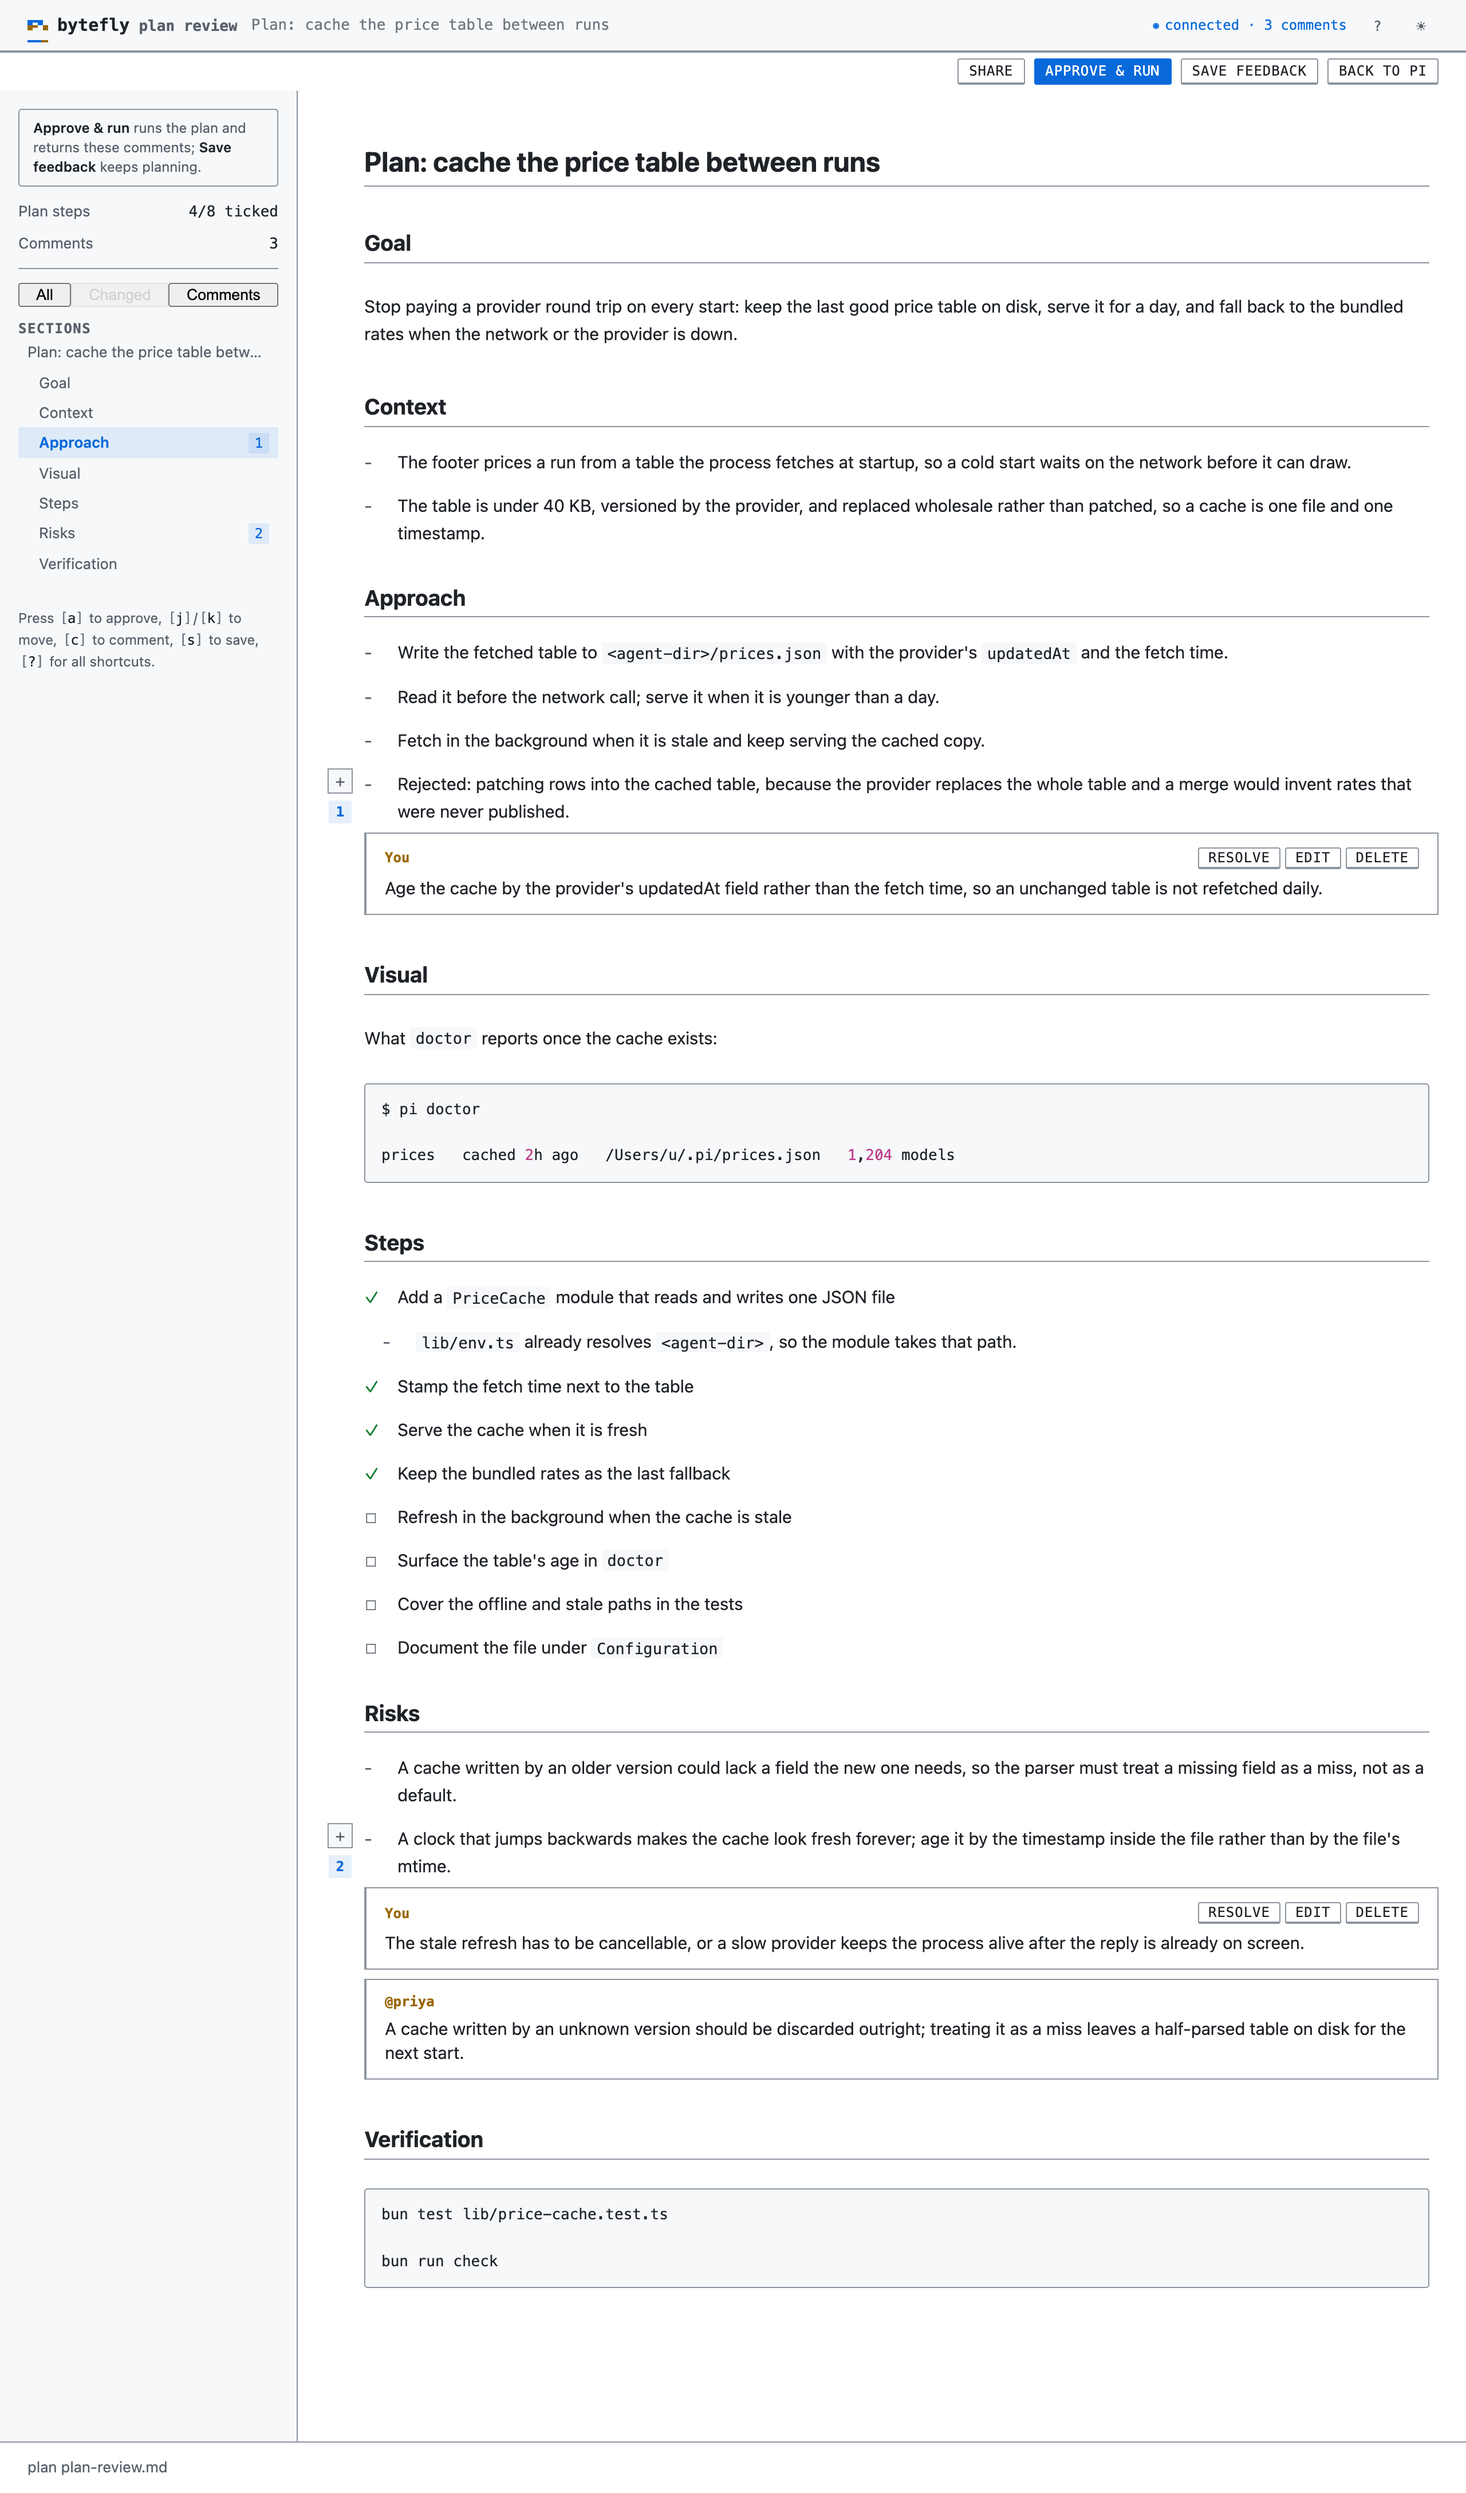
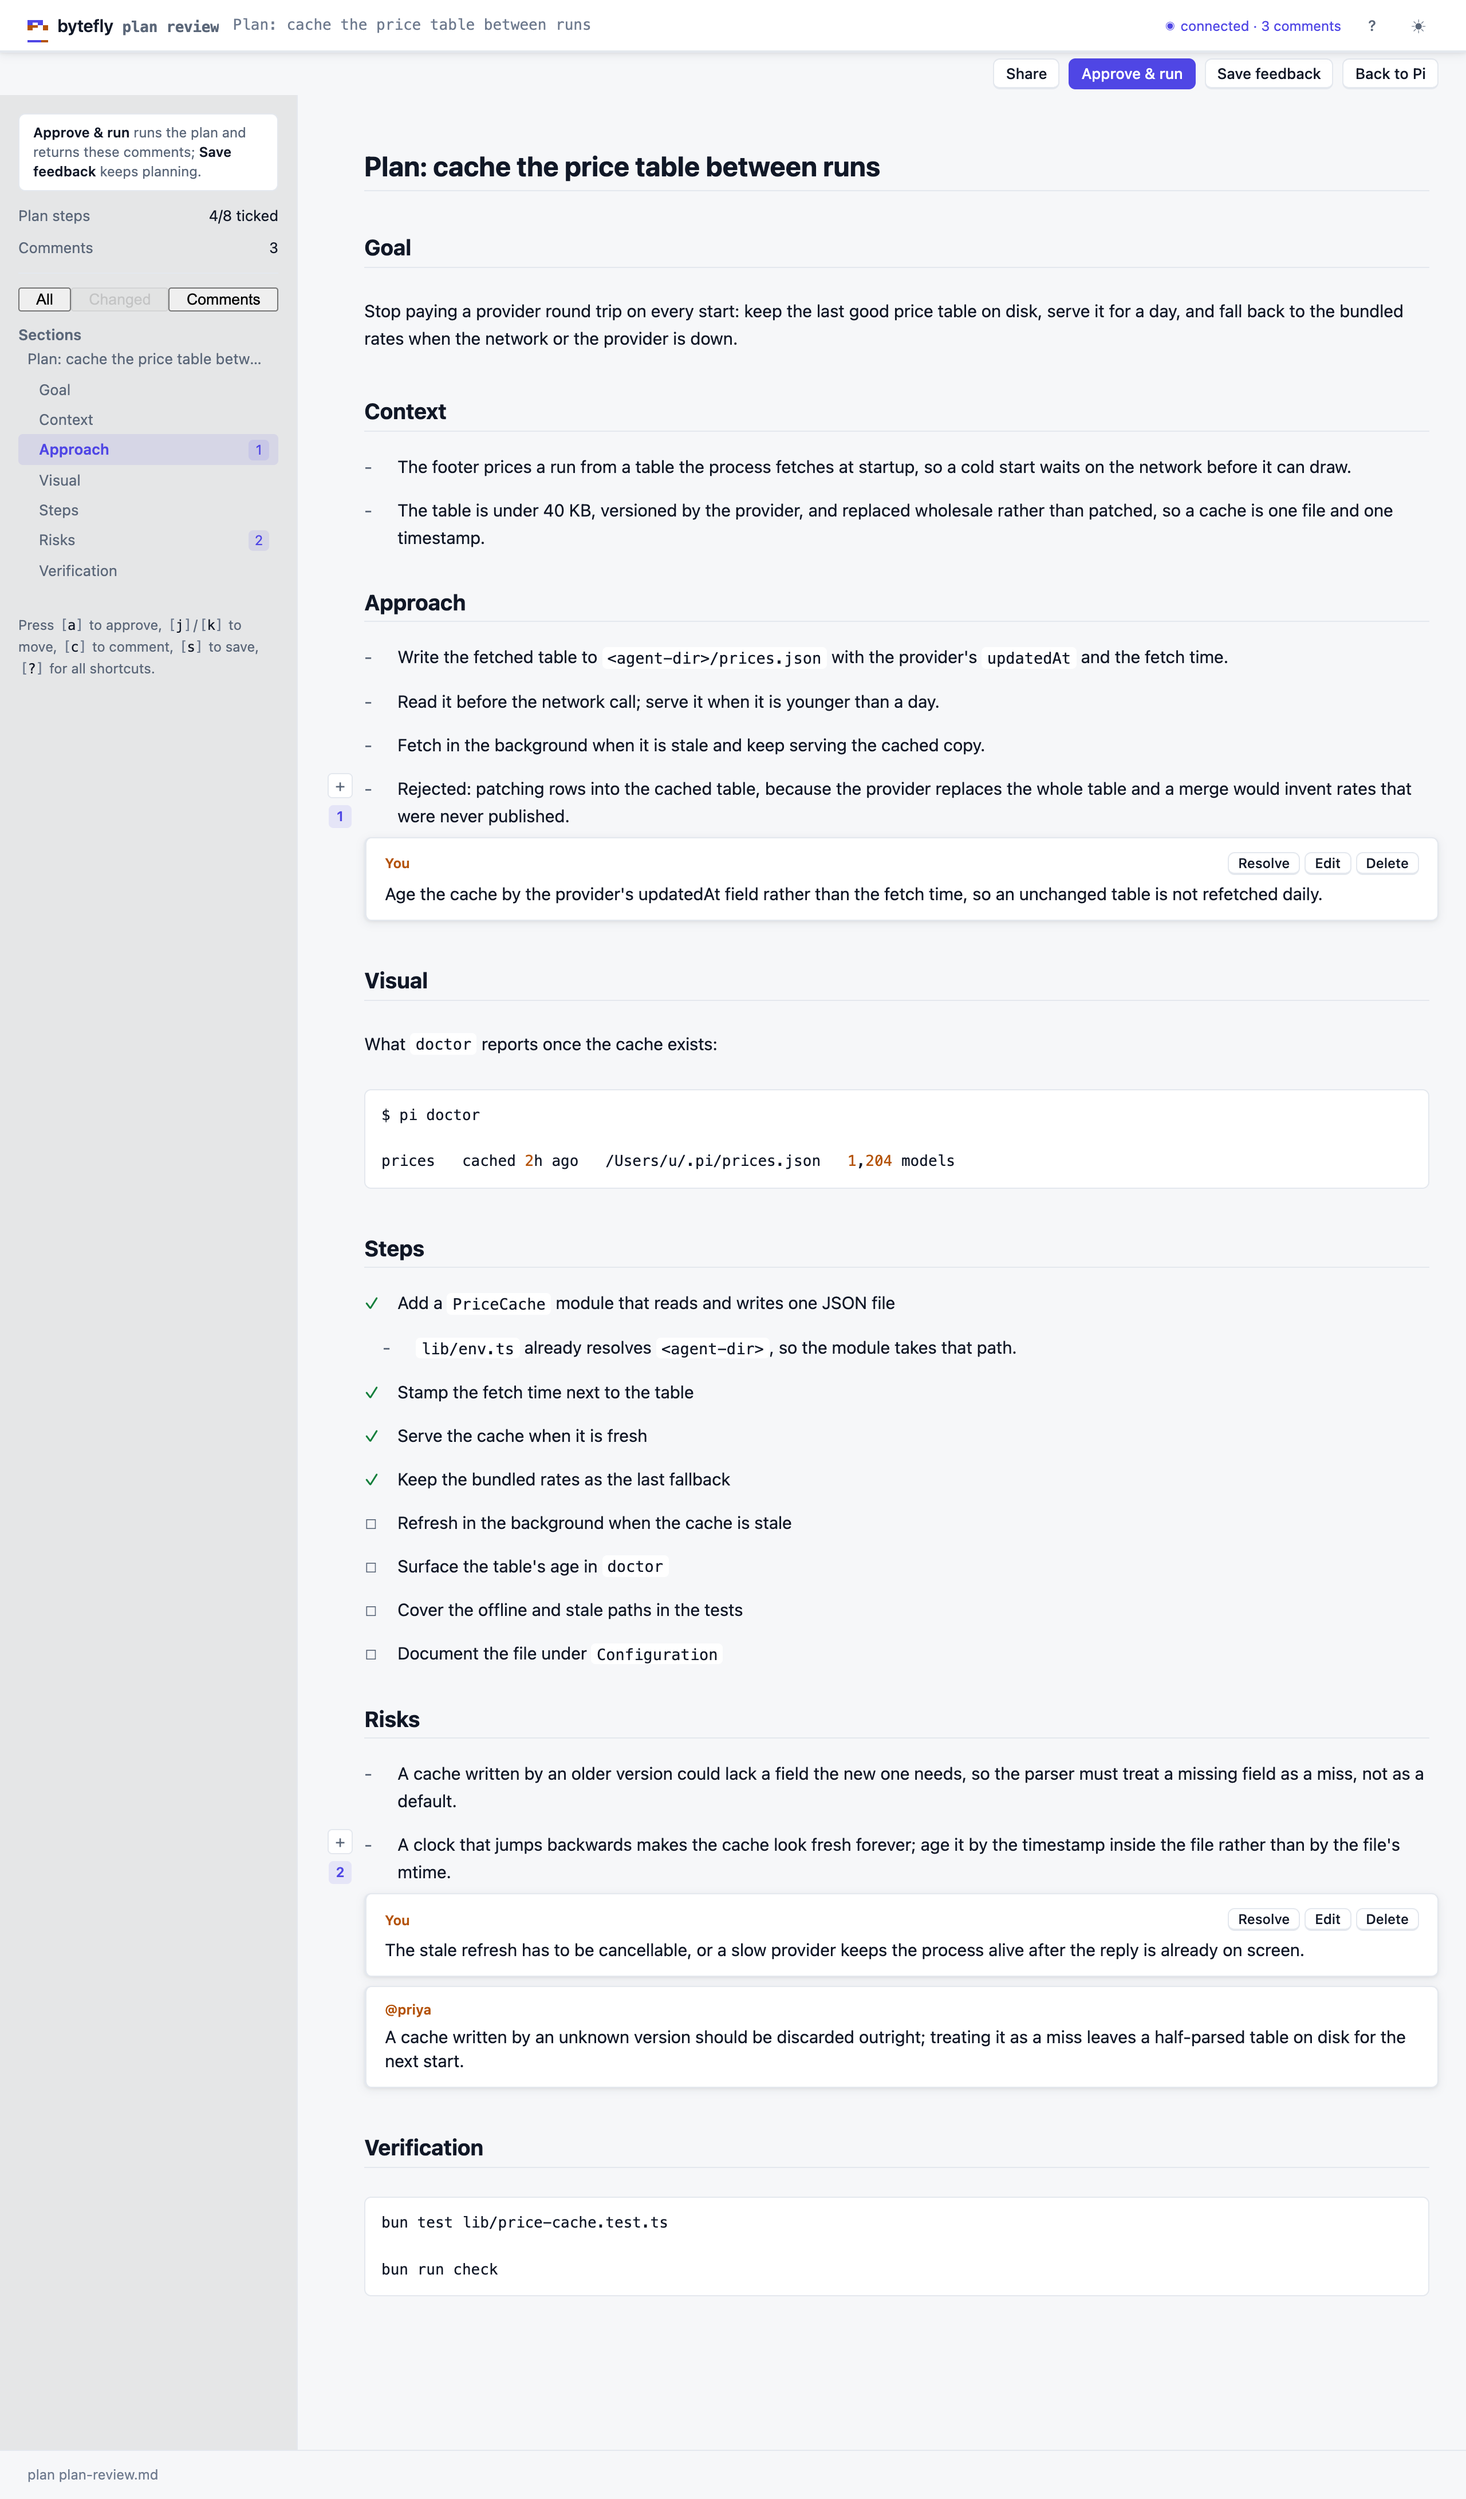
feat(plan): draw the review page in the kit's modern language
The page's labels were monospace and its section words were uppercased with
tracking — a terminal's way of making a word a heading. Eight label rules take
the UI face now (the share line, the fact values, the outline's title and count,
a block's count, and a comment's label, moved and resolved words), and monospace
is left where the text is data: the share URL, the code and the command.

The four uppercase rules go, and with them `.bf-comment__label--author`, which
existed only to undo them for a reviewer's name; the span that wore it is gone
too. A comment is a plane now — the first elevation step on a raised fill, with
the kit's rounded corner, so a lifted square does not read as a mistake. The
three `var(--radius-pill)` uses were undefined tokens that drew squares; they
take the kit's badge radius, and a case fails any variable the page names that
no sheet defines.

diff --git a/extensions/plan/web-page.ts b/extensions/plan/web-page.ts
@@ -48,7 +48,7 @@ ${WEB_COMPONENTS_CSS}
 .review-share__list{list-style:none;margin:0 0 var(--space-3);padding:0;display:flex;flex-direction:column;gap:var(--space-2)}
 .review-share__row{display:flex;align-items:center;gap:var(--space-2);padding:var(--space-2) var(--space-3);border:1px solid var(--border);border-radius:var(--radius-md)}
 .review-share__url{flex:1 1 auto;min-width:0;overflow:hidden;text-overflow:ellipsis;white-space:nowrap;font:var(--fs-sm) var(--font-mono);color:var(--text)}
-.review-share__who{flex:0 0 auto;font:var(--fs-xs) var(--font-mono);color:var(--muted)}
+.review-share__who{flex:0 0 auto;font:var(--fs-xs) var(--font-ui);color:var(--muted)}
 .review-share__who--bound{color:var(--accent)}
 .review-share__actions{display:flex;flex:0 0 auto;gap:4px}
 .review-share__actions .bf-btn{padding:1px 8px;font-size:var(--fs-xs)}
@@ -96,18 +96,18 @@ ${WEB_COMPONENTS_CSS}
 .review-fact>span:first-child{white-space:nowrap}
 .review-fact .bf-progress{color:var(--text)}
 .review-fact .bf-progress__track{width:96px}
-.review-fact__value{color:var(--text);font-family:var(--font-mono);font-variant-numeric:tabular-nums}
+.review-fact__value{color:var(--text);font-family:var(--font-ui);font-variant-numeric:tabular-nums}
 .review-view{display:flex}
 .review-view .bf-segmented__item{flex:1 1 auto;justify-content:center}
 .review-view .bf-segmented__item:disabled{opacity:.5;cursor:default}
 .review-nav{min-width:0}
-.review-nav__title{margin:0;font:var(--fw-semibold) var(--fs-xs) var(--font-mono);color:var(--muted);text-transform:uppercase;letter-spacing:.06em}
+.review-nav__title{margin:0;font:var(--fw-semibold) var(--fs-sm) var(--font-ui);color:var(--muted)}
 .review-nav ul{list-style:none;margin:0;padding:0}
 .review-nav a{display:flex;align-items:baseline;gap:var(--space-2);padding:4px 8px;border-radius:var(--radius-sm);color:var(--muted);font-size:var(--fs-sm);line-height:var(--lh-snug)}
 .review-nav a:hover{background:var(--accent-soft);color:var(--accent);text-decoration:none}
 .review-nav a[aria-current="true"]{background:var(--accent-soft);color:var(--accent);font-weight:var(--fw-semibold)}
 .review-nav__link{flex:1 1 auto;min-width:0;overflow:hidden;text-overflow:ellipsis;white-space:nowrap}
-.review-nav__count{flex:0 0 auto;min-width:18px;padding:0 5px;border-radius:var(--radius-pill);background:var(--accent-soft);color:var(--accent);font:var(--fs-xs)/18px var(--font-mono);text-align:center}
+.review-nav__count{flex:0 0 auto;min-width:18px;padding:0 5px;border-radius:var(--radius-badge);background:var(--accent-soft);color:var(--accent);font:var(--fs-xs)/18px var(--font-ui);text-align:center}
 .review-changed{flex:0 0 auto;width:6px;height:6px;border-radius:50%;background:var(--accent)}
 .review-nav .lvl-2 a{padding-left:18px}
 .review-nav .lvl-3 a{padding-left:30px}
@@ -118,10 +118,10 @@ ${WEB_COMPONENTS_CSS}
 .bf-review>.bf-block{position:relative;width:100%;max-width:var(--review-measure);margin:0 auto;padding:3px 8px 3px var(--review-gutter);border-radius:var(--radius-md);overflow-wrap:break-word}
 .bf-block[id]{scroll-margin-top:88px}
 .bf-block__rail{position:absolute;left:0;top:6px;display:flex;flex-direction:column;align-items:center;gap:6px;width:var(--review-rail)}
-.bf-block__add{appearance:none;width:22px;height:22px;min-width:22px;padding:0;border:1px solid var(--border);border-radius:var(--radius-pill);background:var(--surface);color:var(--muted);font:var(--fs-md)/1 var(--font-ui);cursor:pointer;opacity:0;transition:opacity var(--motion-fast) var(--motion-ease)}
+.bf-block__add{appearance:none;width:22px;height:22px;min-width:22px;padding:0;border:1px solid var(--border);border-radius:var(--radius-badge);background:var(--surface);color:var(--muted);font:var(--fs-md)/1 var(--font-ui);cursor:pointer;opacity:0;transition:opacity var(--motion-fast) var(--motion-ease)}
 .bf-block__add:hover{border-color:var(--accent);color:var(--accent)}
 .bf-block:hover .bf-block__add,.bf-block:focus-within .bf-block__add,.bf-block--active .bf-block__add,.bf-block--commented .bf-block__add{opacity:1}
-.bf-block__count{display:inline-flex;align-items:center;justify-content:center;min-width:20px;height:20px;padding:0 5px;border-radius:var(--radius-pill);background:var(--accent-soft);color:var(--accent);font:var(--fw-semibold) var(--fs-xs)/1 var(--font-mono)}
+.bf-block__count{display:inline-flex;align-items:center;justify-content:center;min-width:20px;height:20px;padding:0 5px;border-radius:var(--radius-badge);background:var(--accent-soft);color:var(--accent);font:var(--fw-semibold) var(--fs-xs)/1 var(--font-ui)}
 /* A block the last review did not hold: the one mark that says "read this line again". The
    rule sits at the text edge, inside the gutter the rail already reserves, so it cannot
    reflow the measure or collide with a comment badge. */
@@ -154,17 +154,16 @@ ${WEB_COMPONENTS_CSS}
 .bf-comments:empty{display:none}
 .bf-comments--orphans{margin-top:26px;padding:var(--space-3) 0 0 var(--review-gutter);border-top:1px dashed var(--border)}
 .bf-comments--orphans>p{margin:0 0 8px;color:var(--muted);font-size:var(--fs-sm)}
-.bf-comment{padding:var(--space-3) var(--space-4)}
+.bf-comment{padding:var(--space-3) var(--space-4);border-radius:var(--radius-md);background:var(--surface);box-shadow:var(--shadow-1)}
 .bf-comment__head{display:flex;align-items:center;gap:var(--space-2);margin-bottom:6px}
-.bf-comment__label{font:var(--fw-semibold) var(--fs-xs) var(--font-mono);color:var(--warn);text-transform:uppercase;letter-spacing:.06em}
+.bf-comment__label{font:var(--fw-semibold) var(--fs-xs) var(--font-ui);color:var(--warn)}
 /* A reviewer's name is a name, not a label: keep its own capitalisation. */
-.bf-comment__label--author{text-transform:none;letter-spacing:0}
 /* A note a refinement carried off its own block: muted, because the complaint is the guess, not the text. */
-.bf-comment__moved{font:var(--fw-medium) var(--fs-xs) var(--font-mono);color:var(--muted);text-transform:uppercase;letter-spacing:.06em;border:1px solid var(--border);border-radius:var(--radius-sm);padding:0 6px}
+.bf-comment__moved{font:var(--fw-medium) var(--fs-xs) var(--font-ui);color:var(--muted);border:1px solid var(--border);border-radius:var(--radius-sm);padding:0 6px}
 .bf-comment__spacer{flex:1 1 auto}
 /* A settled note keeps its quote and loses its body: the record stays, the eye moves on. */
 .bf-comment--resolved{border-left-color:var(--success);opacity:.72}
-.bf-comment__resolved{font:var(--fw-medium) var(--fs-xs) var(--font-mono);color:var(--success);text-transform:uppercase;letter-spacing:.06em}
+.bf-comment__resolved{font:var(--fw-medium) var(--fs-xs) var(--font-ui);color:var(--success)}
 .bf-comment__actions{display:flex;gap:4px}
 .bf-comment__actions .bf-btn{padding:1px 8px;font-size:var(--fs-xs)}
 .bf-comment__quote{margin-bottom:6px;padding-left:8px;border-left:2px solid var(--border);color:var(--muted);font-size:var(--fs-sm);overflow-wrap:anywhere}

diff --git a/extensions/plan/web-page.test.ts b/extensions/plan/web-page.test.ts
@@ -311,3 +311,35 @@ describe("the client bundle", () => {
 		expect(argumentlessCalls(bundle, ["renderFacts", "closeComposer", "unused"])).toEqual(["renderFacts"]);
 	});
 });
+
+describe("the page's own design rules", () => {
+	/** The page's own rules: everything after the last kit block, which is where its sheet starts. */
+	const own = () => REVIEW_CSS.split(WEB_COMPONENTS_CSS)[1] ?? "";
+
+	test("leaves the kit's face and case alone, and keeps mono for a URL and code", () => {
+		// The page wears the kit's language: a label is the UI's, and mono survives only where the text
+		// is something a reader copies or reads character by character.
+		expect(own()).not.toContain("text-transform");
+		for (const rule of own()
+			.split("\n")
+			.filter((line) => line.includes("var(--font-mono)"))) {
+			expect(rule, rule).toMatch(/^\.(review-share__url|bf-block code|bf-block pre\.bf-code)\{/);
+		}
+	});
+
+	test("names only tokens that exist, for its radius and its elevation", () => {
+		// An undefined custom property is silent: `var(--radius-pill)` drew a square for as long as the
+		// kit never defined it, so the page's variables are checked against the kit's and its own.
+		const defined = new Set(
+			[...`${WEB_THEME_CSS}${WEB_COMPONENTS_CSS}${own()}`.matchAll(/--[a-z0-9-]+:/g)].map((hit) => hit[0].slice(0, -1)),
+		);
+		for (const used of own().matchAll(/var\((--[a-z0-9-]+)\)/g)) {
+			expect(defined.has(used[1] as string), used[1] as string).toBe(true);
+		}
+		for (const shadow of own().matchAll(/box-shadow:([^;}]+)/g)) {
+			// A print rule clears the mark it drew on screen; everything else is a kit token.
+			if ((shadow[1] as string).startsWith("inset ") || shadow[1] === "none") continue;
+			expect(shadow[1], shadow[1]).toMatch(/^var\(--shadow-[12]\)$/);
+		}
+	});
+});

diff --git a/extensions/plan/web-comments.ts b/extensions/plan/web-comments.ts
@@ -249,7 +249,7 @@ export const WEB_COMMENTS_JS = String.raw`  function selectionIn(wrap) {
       var head = el("div", "bf-comment__head");
       // Every card names a person: "Review" was a category, and on a reviewer's page it
       // could be anybody — including the reader.
-      var label = el("span", "bf-comment__label bf-comment__label--author");
+      var label = el("span", "bf-comment__label");
       label.textContent = annotation.author ? "@" + annotation.author : role === "owner" ? "You" : "The owner";
       head.appendChild(label);
       if (annotation.moved) {
